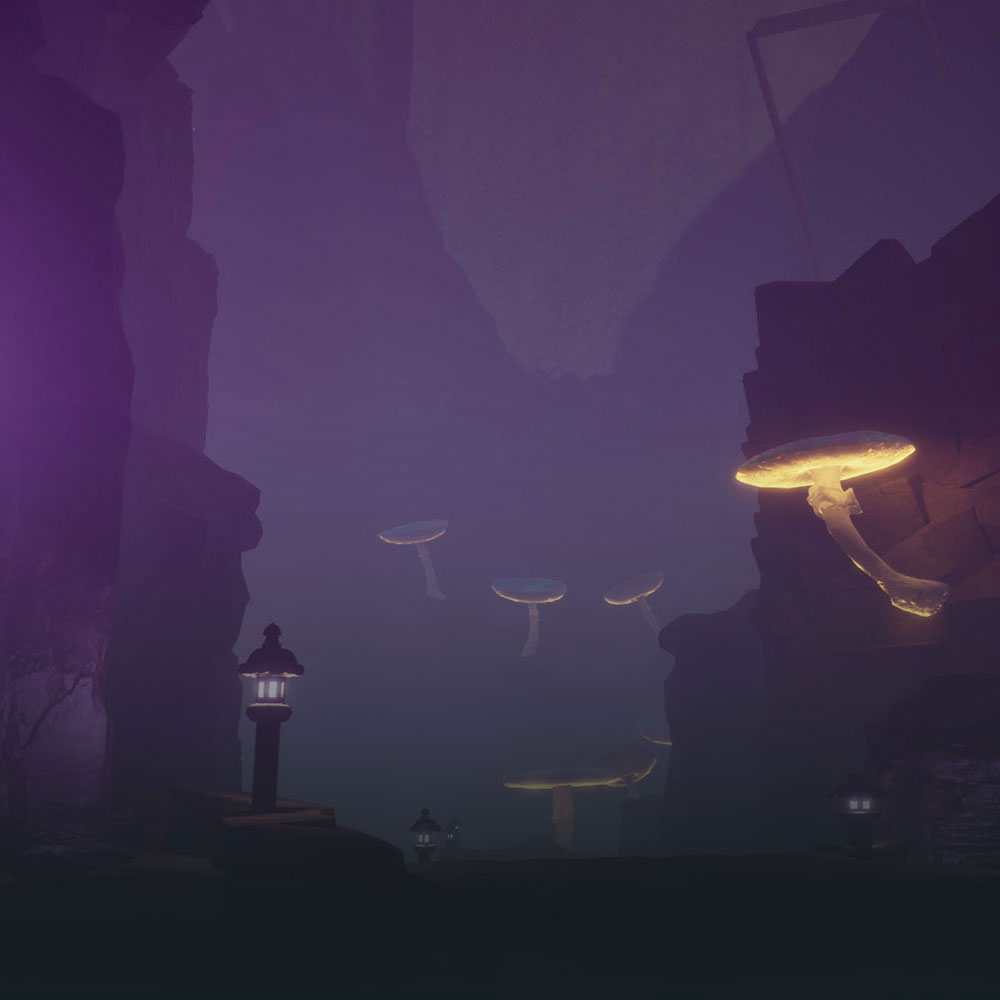
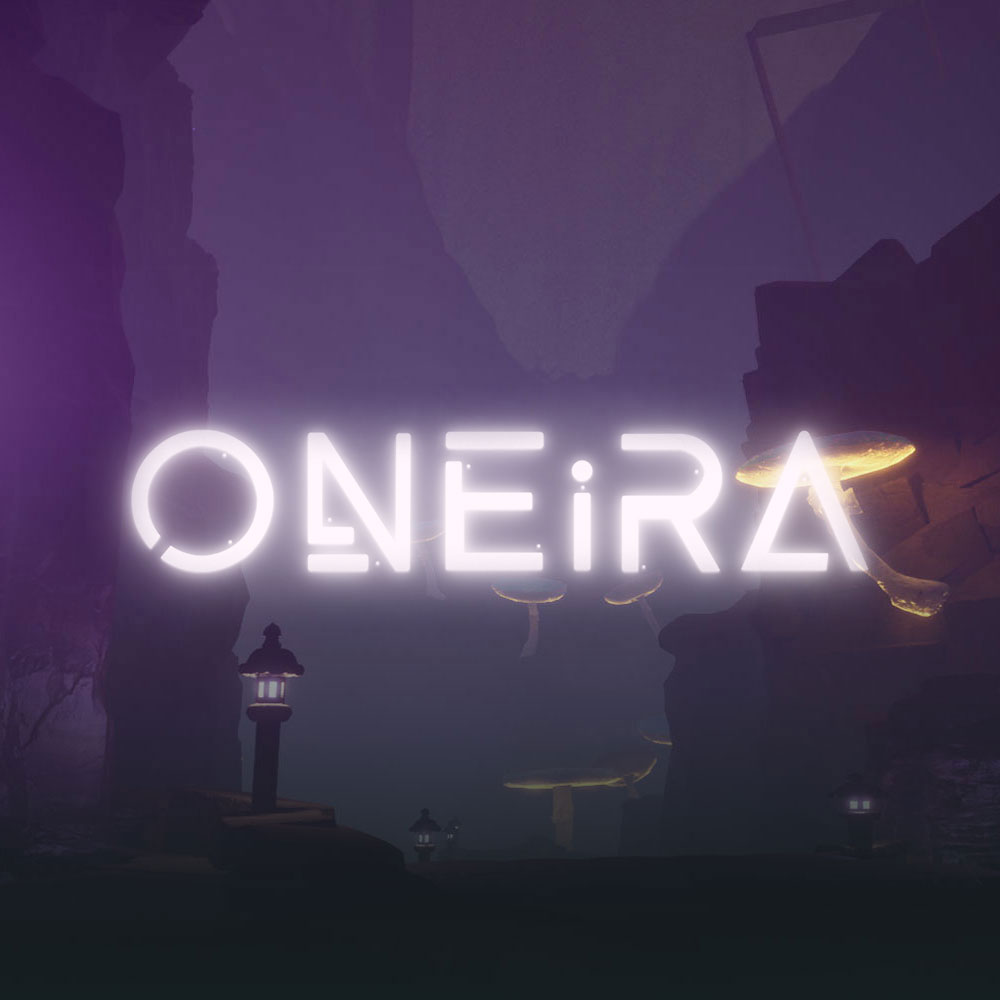
Tweaks

Changed region(s): [[0.093, 0.403, 0.899, 0.62]]

diff --git a/_includes/header_oneira.html b/_includes/header_oneira.html
@@ -6,7 +6,7 @@
 
         <!--Logo-->
         <div class="col d-flex align-items-center justify-content-center">
-            <img class="img-fluid" style="max-width: 75%" src="/assets/img/oneira/logo.png" alt="ONEiRA logo.">
+            <img class="img-fluid d-none d-md-block" style="max-width: 75%" src="/assets/img/oneira/logo.png" alt="ONEiRA logo.">
         </div>
 
         <!--Button-->
